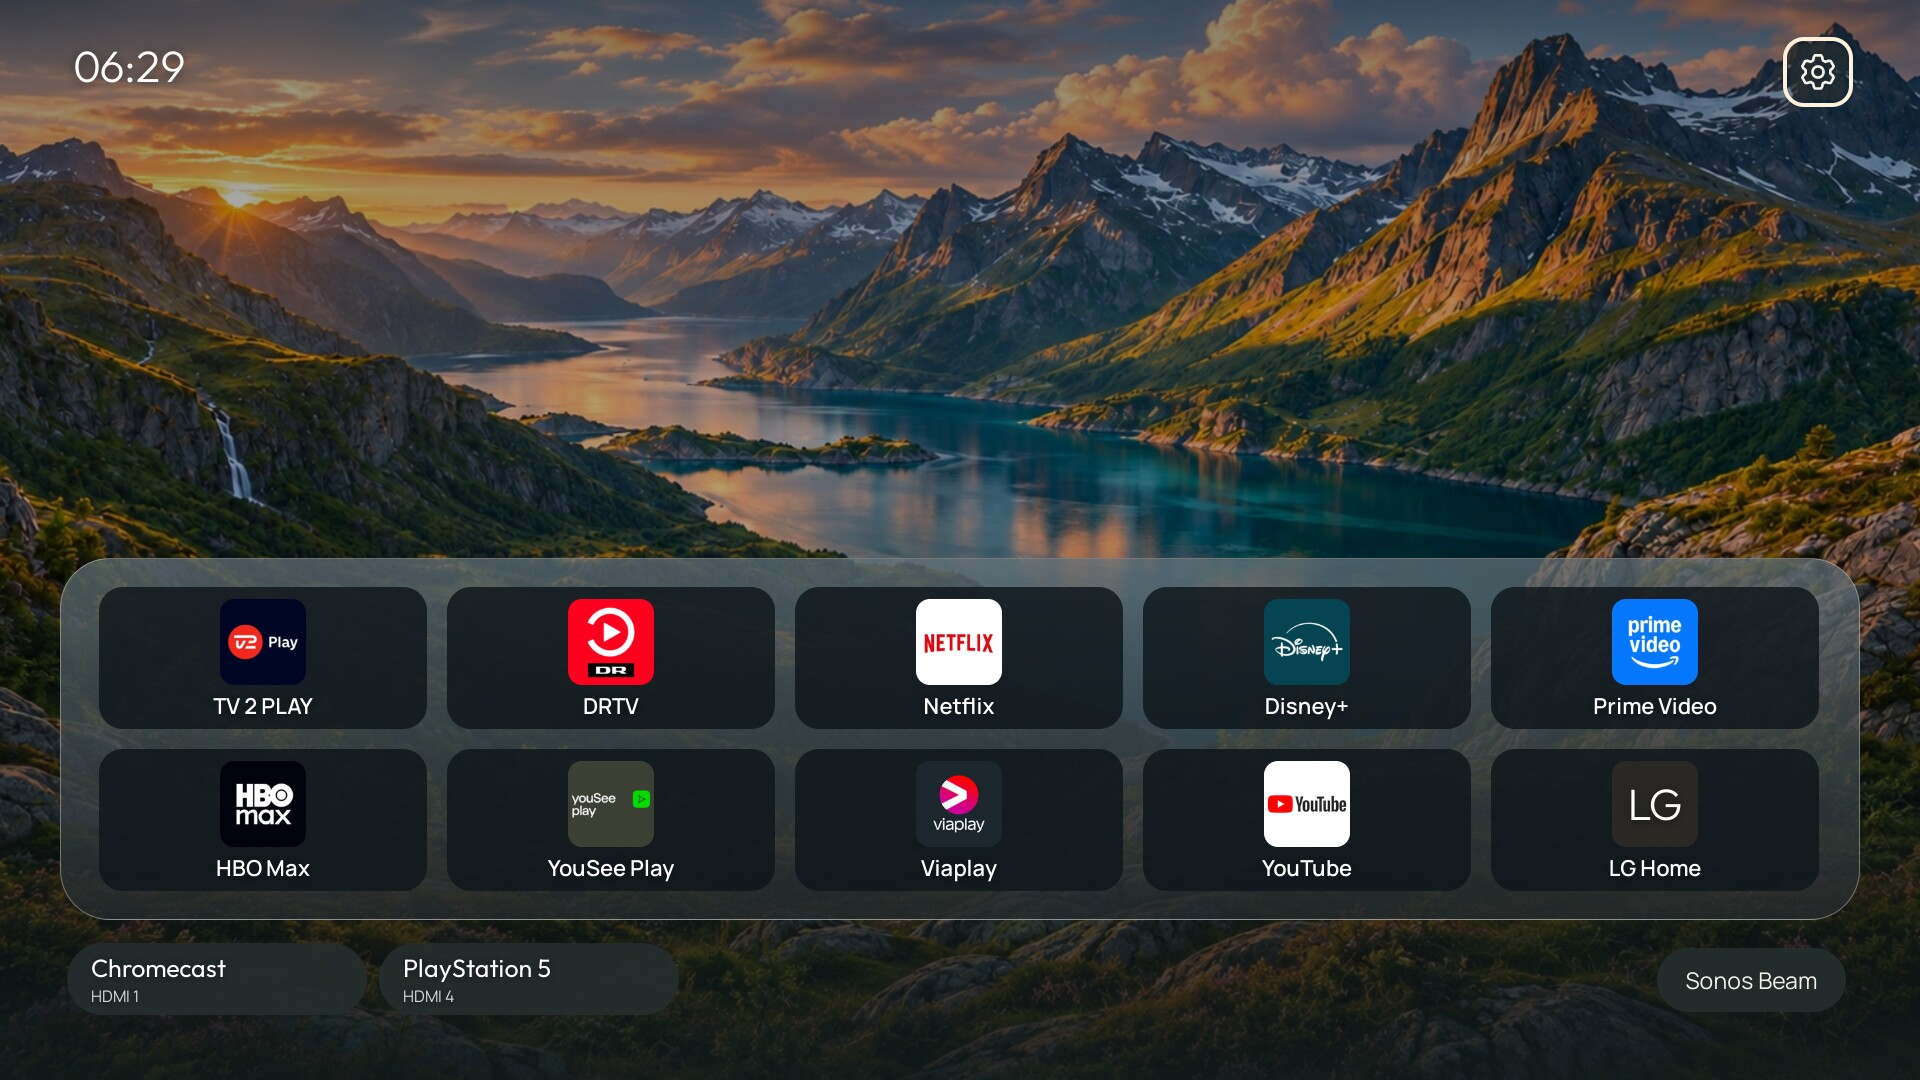
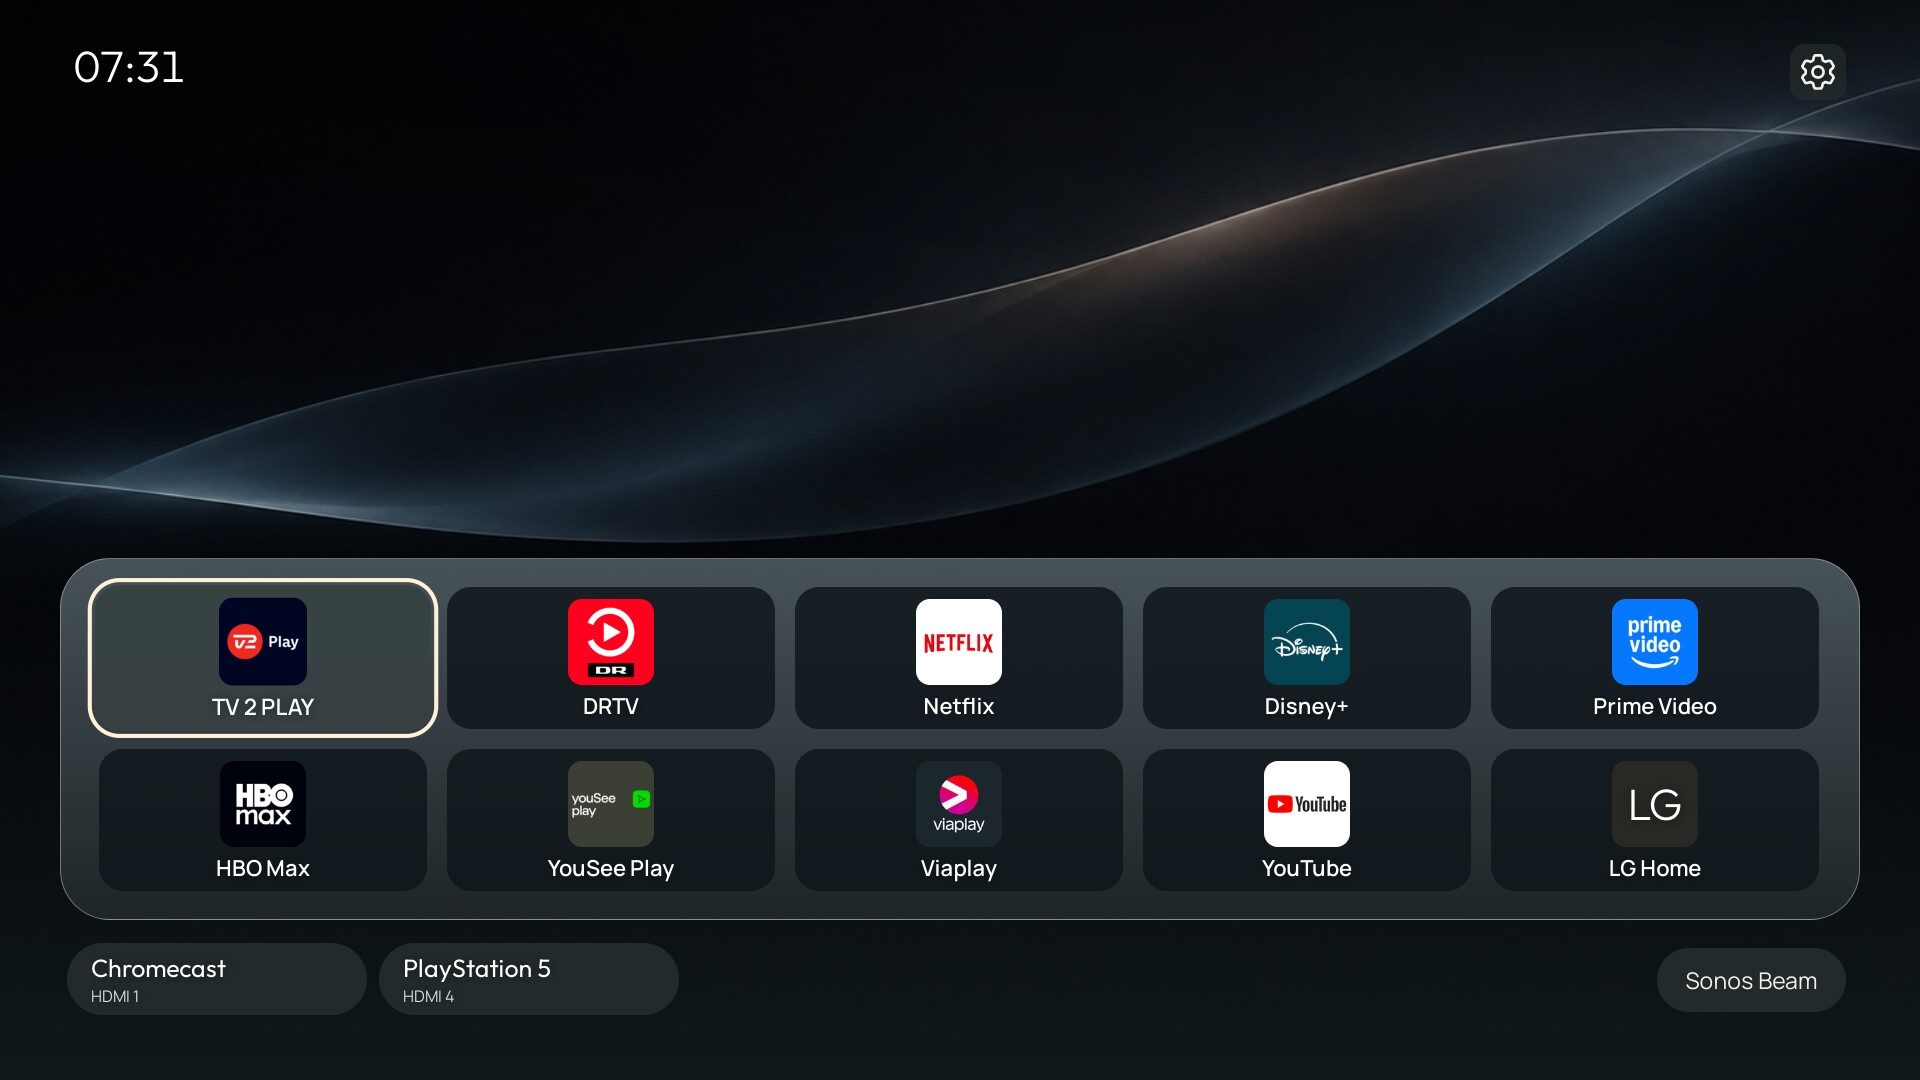
Save the abstract background and TV update verification

diff --git a/personal-home/README.md b/personal-home/README.md
@@ -20,8 +20,9 @@ once. Do not replace Glasshouse's own `50-tvweb` hook. Re-running the hook
 leaves an already-running guard alone.
 
 After about 15 seconds, `status.json` in the theme directory should say
-`active`, meaning the theme is installed on disk. `last-stock-home.html` and `last-themed-home.html` are recovery
-copies. The PID file is `/var/run/glasshouse-home-theme.pid`. Nothing listens
+`active`, meaning the theme is installed on disk. `last-stock-home.html` and
+`last-themed-home.html` are recovery copies. The PID file is
+`/var/run/glasshouse-home-theme.pid`. Nothing listens
 on a network port, and no credentials are included in this package.
 
 An update normally restores the theme within 15–25 seconds of its files
@@ -51,3 +52,17 @@ release needs its base version and hashes regenerated and tested together.
 LG firmware updates, factory resets and loss of root are outside this package.
 Future changes to installation paths, boot hooks or Home APIs may require
 repair. The last saved theme remains available for that work.
+
+## Background and verification
+
+The minimal dark background is saved as [abstract-slate.jpg](abstract-slate.jpg),
+with its [generation prompt](wallpaper.md). Upload it through Home's wallpaper
+settings for each of the four time slots. Glasshouse stores these uploads
+outside its release assets.
+
+On 3 November 2026, the official v0.138.0 updater reinstalled 165 files on an
+OLED65C26LD running webOS 10.3.1. The guard reapplied the custom Home within
+20 seconds; the guard, boot hook, settings, layout and all four wallpapers
+survived unchanged. A full TV reboot started the guard automatically and
+served the custom page. The guard regression suite also passed on the TV's
+Node 16.20.2 runtime. API requests without the access token still returned 401.

diff --git a/personal-home/wallpaper.md b/personal-home/wallpaper.md
@@ -1,0 +1,10 @@
+# Abstract slate TV wallpaper
+
+
+Generated with the built-in image generation tool on 2026-11-03. Original:
+`abstract-slate-v3.png` (original local artifact), 1672 × 941 pixels. TV upload: `abstract-slate.jpg`,
+JPEG quality 90, same dimensions. No reference image was used.
+
+Prompt:
+
+> Create an elegant minimal abstract wallpaper for a 65-inch OLED television home screen, widescreen 16:9, maximum supported resolution. The composition should be quiet, spacious and refined: an almost-black charcoal background with one broad softly sculpted ribbon of smoked glass flowing gently across the upper-middle of the frame, lit by a very restrained slate-blue glow and a thin muted warm pewter highlight. Use smooth tonal transitions with a tiny amount of fine natural grain to avoid banding; believable soft studio lighting and subtle depth. The abstract form is simple and asymmetrical, with large areas of negative space. Keep the top-left corner almost black and empty for a white clock. Keep the entire lower 45 percent dark, calm and nearly uniform for a two-row translucent app dock. Overall appearance: sophisticated contemporary industrial design, understated, dark, uncluttered, restful. No landscape, no mountains, no bright light source, no neon colours, no rainbow gradients, no busy swirls, no clusters of shapes, no patterns, no text, no logos, no UI, no borders, no watermark. Opaque image.
